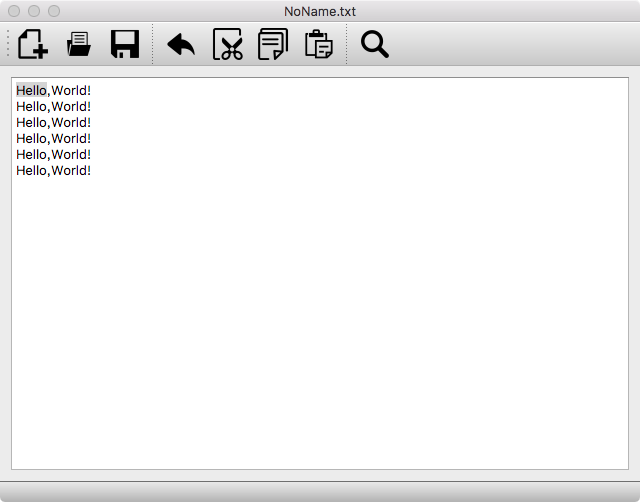
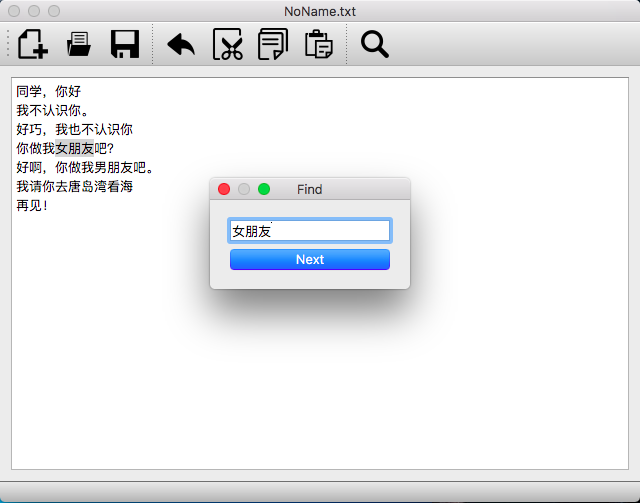
修改说明和图片

Changed region(s): [[0.2812, 0.3287, 0.6875, 0.6574], [0.0, 0.9263, 1.0, 1.0], [0.0, 0.1494, 0.25, 0.4183]]

diff --git a/README.MD b/README.MD
@@ -1,10 +1,21 @@
-# 简单记事本 notepad
+# 简单记事本程序 Notepad
 
 ### 说明
-
-- 基于Qt和C++创建的第一个界面程序。
-- 代码参考Qt快速入门系列教程并进行部分修正。
-- 可能尚存BUG（已知：保存完后）
+- 这是 ~~帝国能源大学~~ 中国石油大学（华东）软件工程一年级小学期任务。
+- 基于Qt Creator 4.3.1（Qt 5.9.1）和C++在macOS上创建的第一个界面程序。
+- 代码参考Qt快速入门系列教程并进行修正。
 - 其他文件问题邮件/wiki联系。
+- 删掉了.user文件，您可根据自己的操作系统和环境设置以方便运行。(2017.7.13 added)
+
+### 程序截图预览
+程序运行界面：
+![程序运行界面](https://raw.githubusercontent.com/andyliu24/notepad/master/Preview/1.png "程序运行界面")
+
+查找功能演示：
+![查找功能演示](https://raw.githubusercontent.com/andyliu24/notepad/master/Preview/2.png "查找功能演示")
+
+### 尚存bug解释
+- 在判断文件更改的`maybeSave`函数中，调用系统函数`isModified()`判断文本框是否被修改。但保存文档后立即点击新建/打开仍旧提示未保存，经单步调试发现`isModified()`返回值为true，没有想到好的解决方案，于是此bug没有修正。
+- 其他未尽bug期待您的发觉。
 
 ### END
